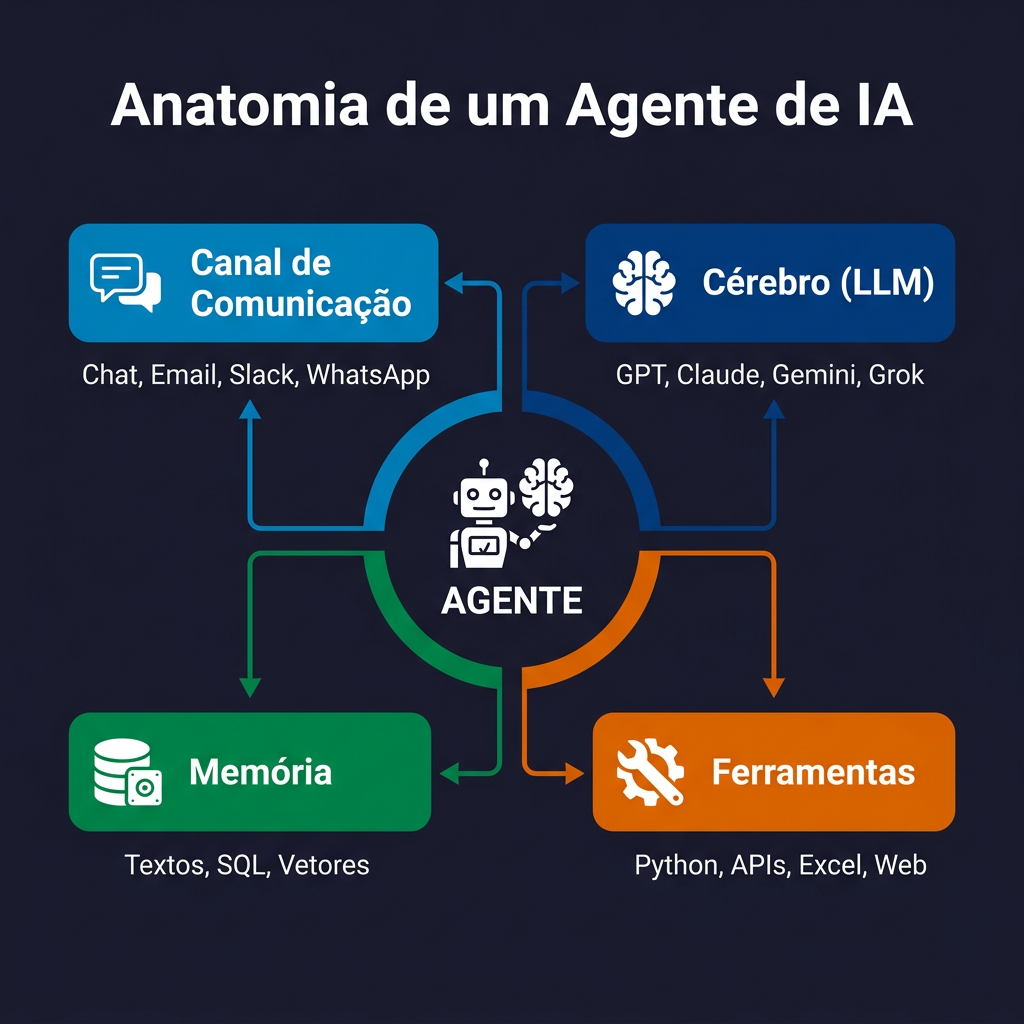
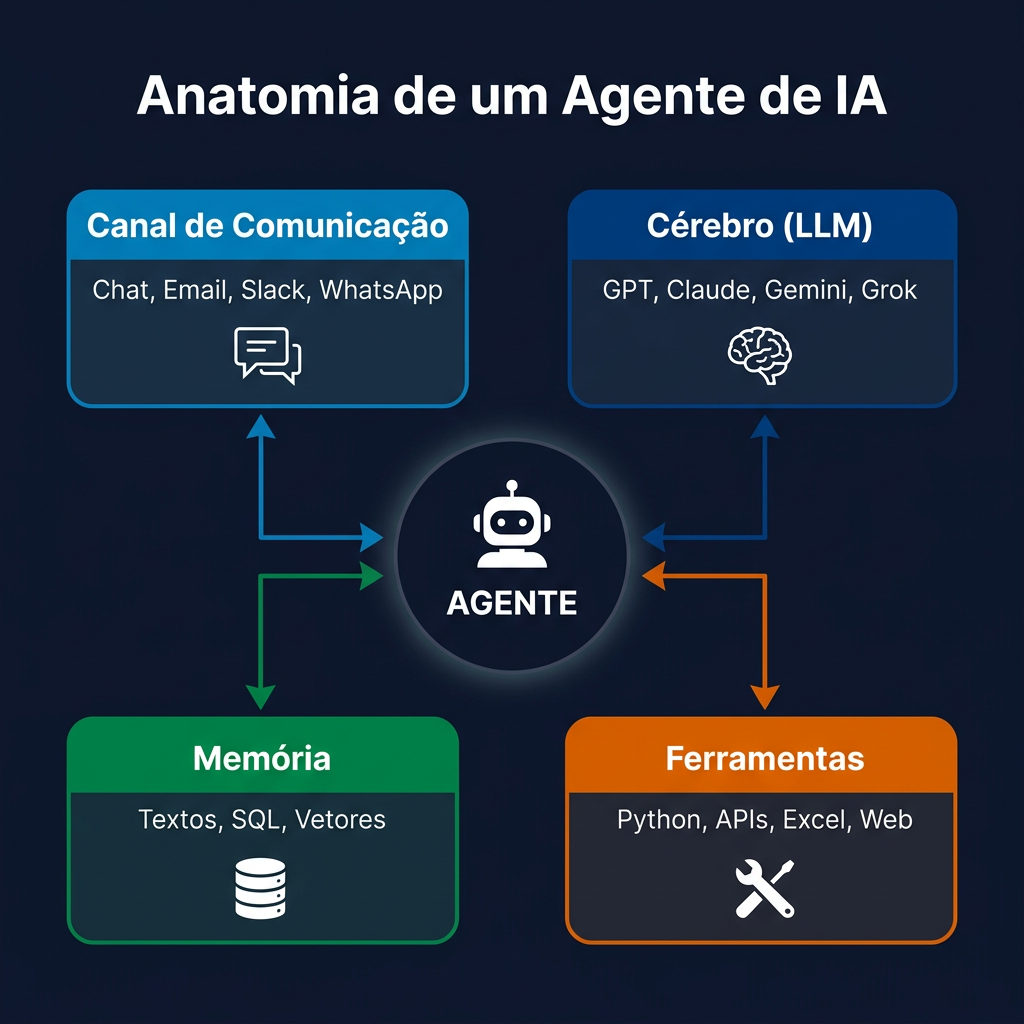
feat: adicionar fontes nos cards sem referencia + regenerar 3 infograficos
- Challenges: fontes para Vies Algoritmico (Harvard), Interoperabilidade
  (FIWARE), Capacitacao (UN-Habitat, UNITAC)
- Future: fontes para IA Generativa Municipal (Pref SP, Oracle) e
  Agentes Autonomos (TRENDS, ArXiv)
- Regenerar 3 infograficos com Gemini 3.1 Flash Image Preview:
  architecture-layers, vision-reactive-predictive, agente_anatomia
  Visual profissional polido, acentos corretos

Changed region(s): [[0.0625, 0.1562, 0.9375, 0.9375], [0.0938, 0.0625, 0.9062, 0.1562]]

diff --git a/src/sections/13-Challenges.tsx b/src/sections/13-Challenges.tsx
@@ -20,7 +20,10 @@ const CHALLENGES = [
     icon: 'scale',
     title: 'Viés Algorítmico',
     description: 'Modelos treinados em dados enviesados podem reforçar desigualdades sociais e geográficas. Auditoria contínua e testes de fairness são essenciais.',
-    sources: [] as ChallengeSource[],
+    sources: [
+      { label: 'Harvard — Algorithmic Fairness in Cities', url: 'https://datasmart.hks.harvard.edu/news/article/algorithmic-fairness-tackling-bias-city-algorithms' },
+      { label: 'CIDOB — AI Ethics in City Governance', url: 'https://www.cidob.org/en/publications/ai-ethics-policy-and-action-city-governance-algorithmic-decision-systems' },
+    ] as ChallengeSource[],
     color: '#FF6D00',
   },
   {
@@ -38,14 +41,19 @@ const CHALLENGES = [
     icon: 'link',
     title: 'Interoperabilidade',
     description: 'Evitar dependência de fornecedor único (vendor lock-in). Priorizar padrões abertos, APIs documentadas e soluções open-source.',
-    sources: [] as ChallengeSource[],
+    sources: [
+      { label: 'FIWARE + OASC — Open Standards for Cities', url: 'https://www.fiware.org/news/fiware-foundation-and-oasc-strengthen-ties-to-drive-open-standards-and-innovation-in-cities-and-regions/' },
+    ] as ChallengeSource[],
     color: '#1E90FF',
   },
   {
     icon: 'book-open',
     title: 'Capacitação',
     description: 'Formar equipe técnica local. Parcerias com universidades para transferência de conhecimento. Não basta comprar tecnologia — é preciso saber operá-la.',
-    sources: [] as ChallengeSource[],
+    sources: [
+      { label: 'UN-Habitat — Capacity Building for Smart Cities', url: 'https://unhabitat.org/programme/legacy/people-centered-smart-cities/building-capacity-for-people-centered-smart-cities-a' },
+      { label: 'UNITAC — Treinamento para cidades brasileiras', url: 'https://unitac.un.org/en/2025-trainings-to-city-leaders' },
+    ] as ChallengeSource[],
     color: '#00C853',
   },
 ]

diff --git a/src/sections/14-Future.tsx b/src/sections/14-Future.tsx
@@ -12,12 +12,20 @@ const TRENDS = [
     title: 'IA Generativa Municipal',
     description: 'LLMs treinados em dados locais para auxiliar gestores. "Pergunte ao assistente da prefeitura" — consulta rápida de histórico, normas e recomendações.',
     color: '#7C4DFF',
+    sources: [
+      { label: 'Prefeitura SP — Simplifica AI', url: 'https://prefeitura.sp.gov.br/w/prefeitura-desenvolve-ferramenta-de-intelig%C3%AAncia-artificial-para-simplificar-documentos-da-administra%C3%A7%C3%A3o-p%C3%BAblica' },
+      { label: 'Oracle — 10 AI Use Cases for Local Gov', url: 'https://www.oracle.com/artificial-intelligence/ai-local-government/' },
+    ] as FutureSource[],
   },
   {
     icon: 'bot',
     title: 'Agentes Autônomos',
     description: 'Despacho automático de equipes, ajuste semafórico sem intervenção humana, respostas automáticas a chamados rotineiros do 156.',
     color: '#1E90FF',
+    sources: [
+      { label: 'TRENDS — AI Smart Traffic Systems', url: 'https://trendsresearch.org/insight/ai-integrated-smart-traffic-systems-for-carbon-neutral-cities/' },
+      { label: 'ArXiv — Autonomous Smart Traffic Management', url: 'https://arxiv.org/html/2410.10929v7' },
+    ] as FutureSource[],
   },
   {
     icon: 'globe',
